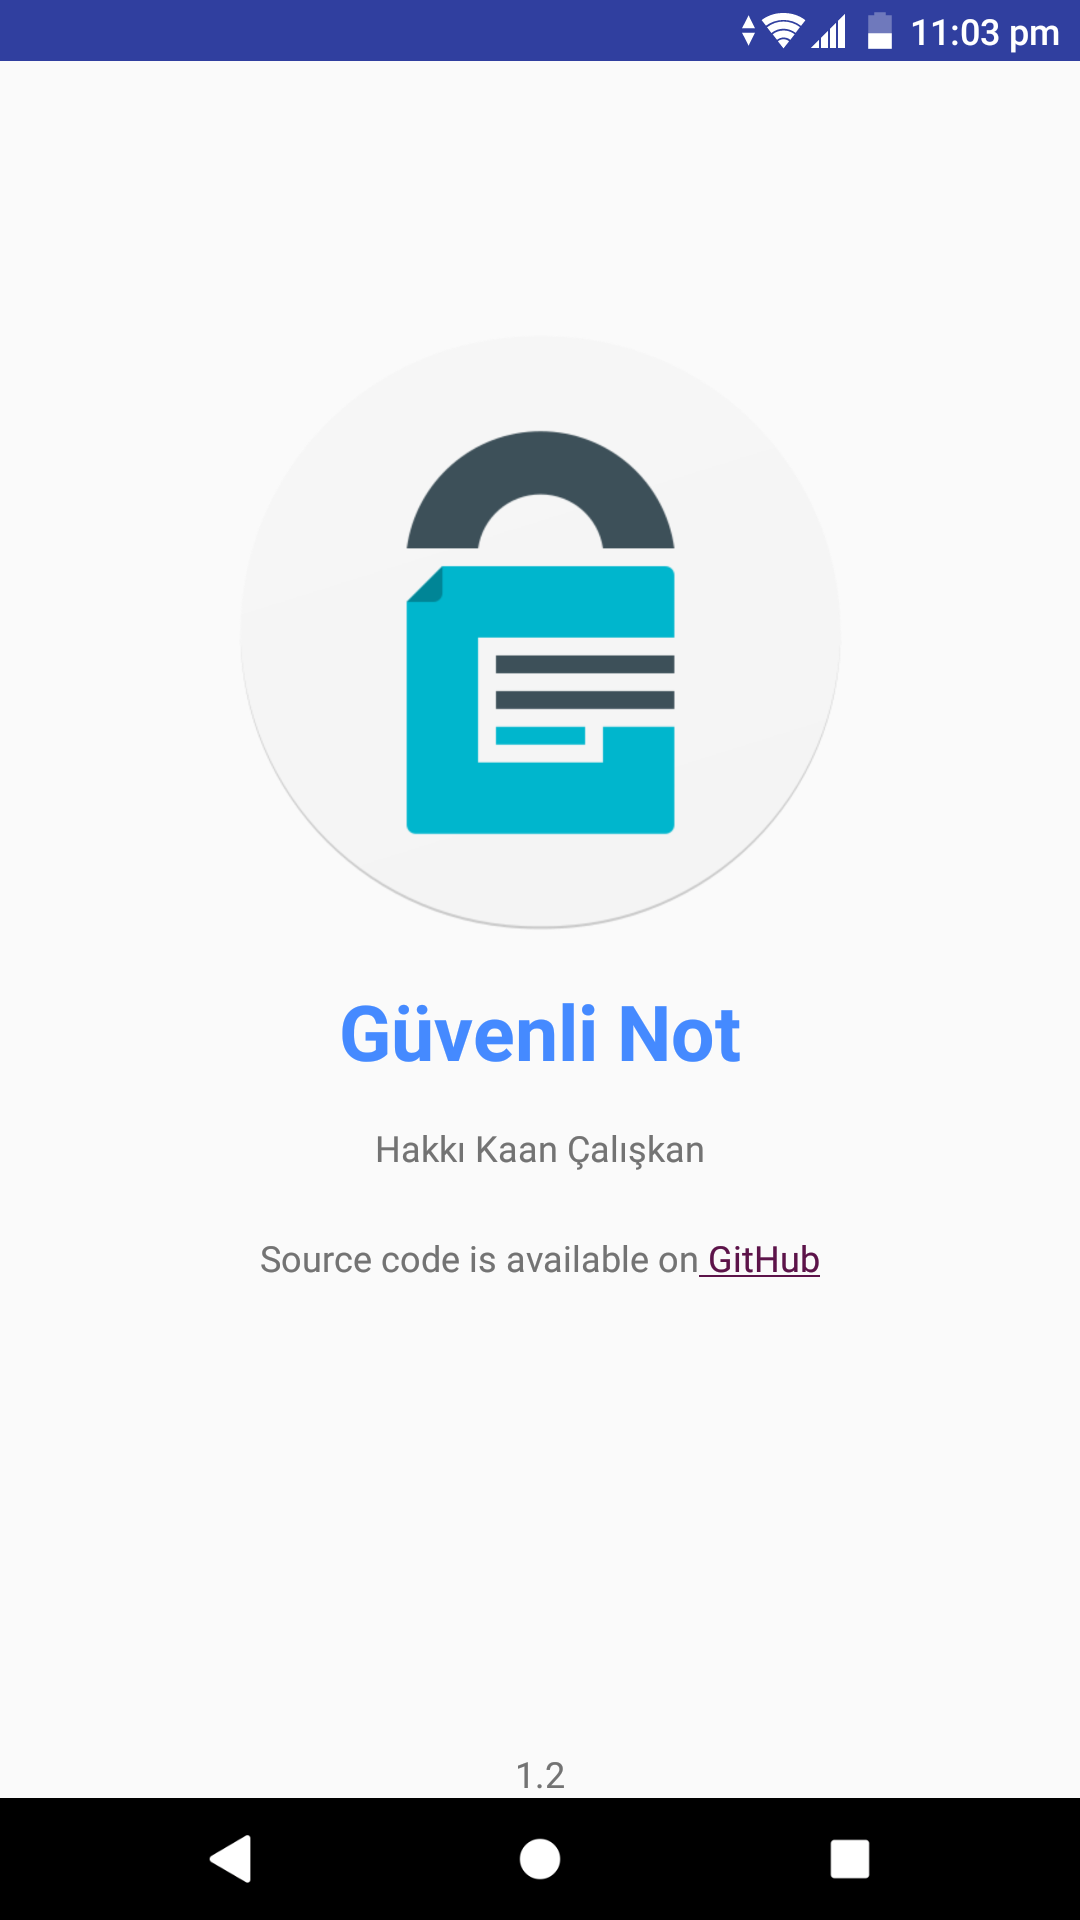
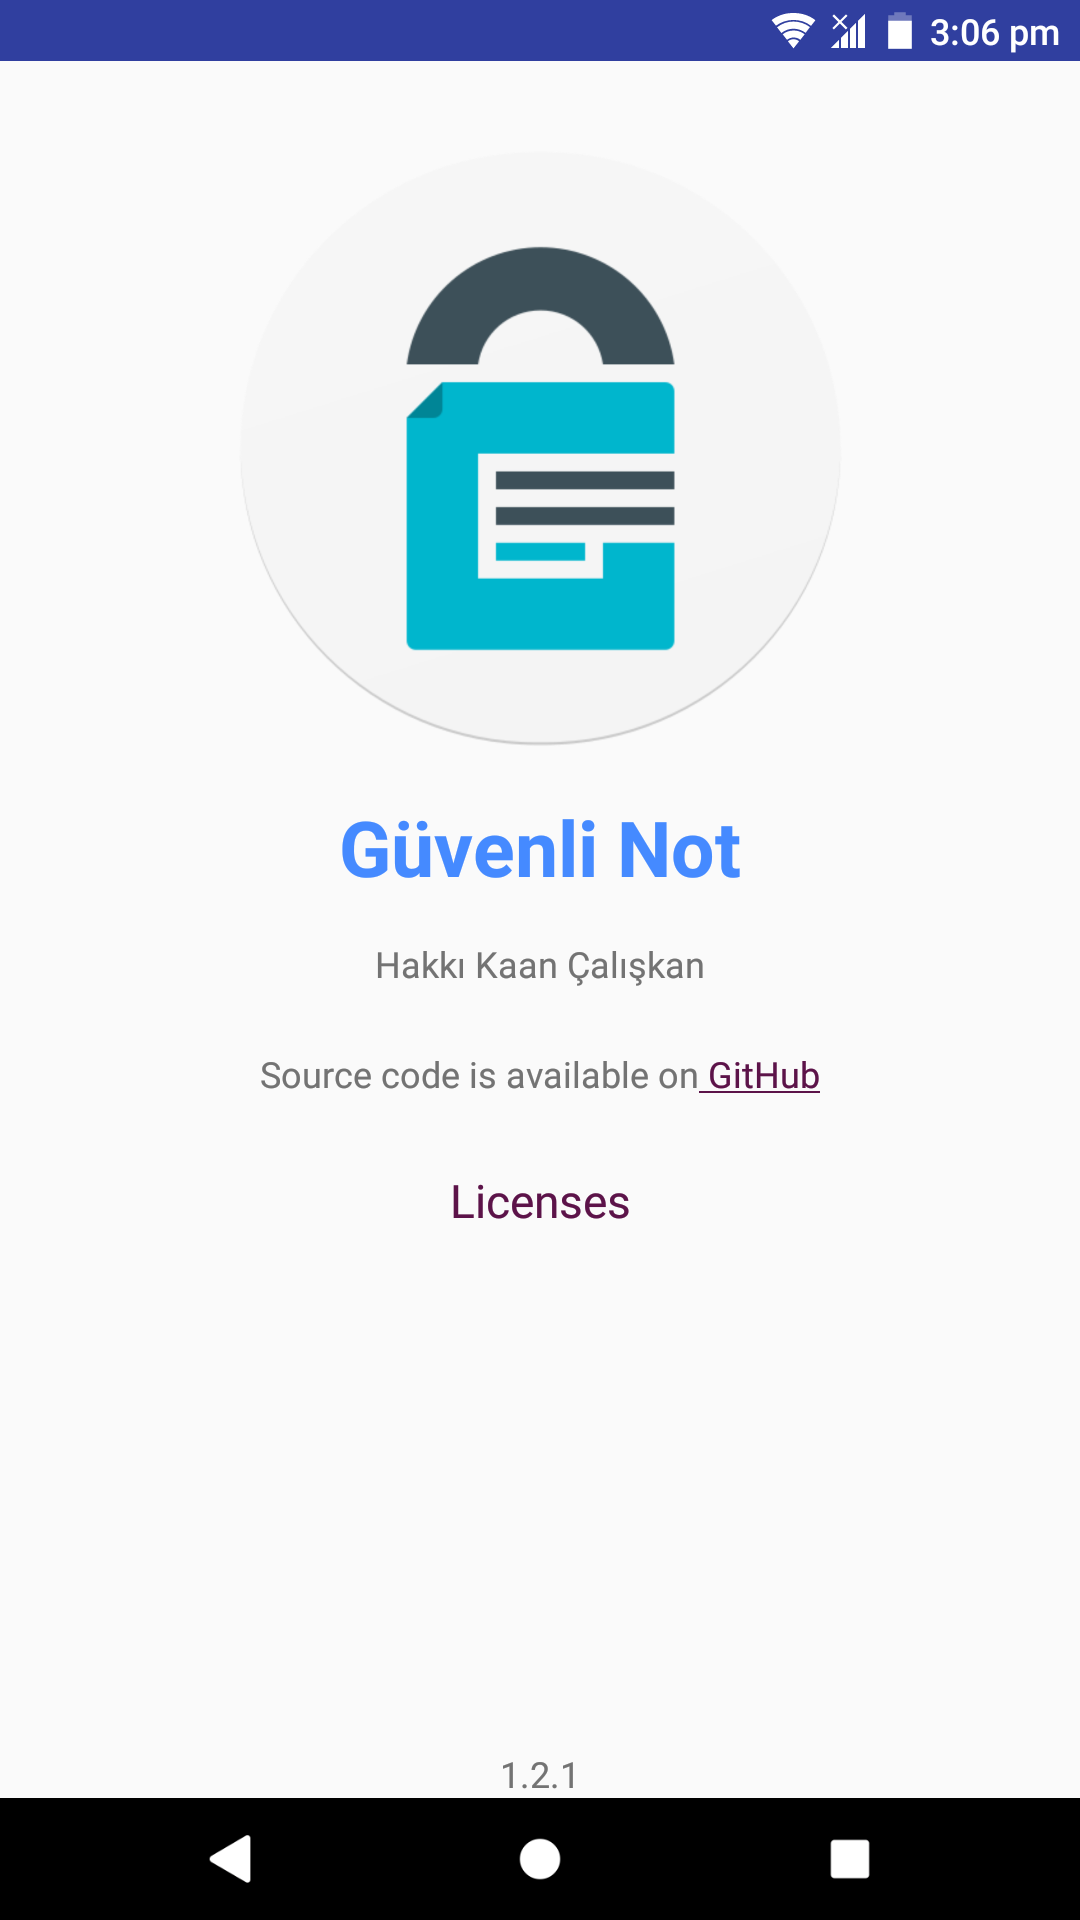
new licenses page and changes about readme

diff --git a/app/src/main/java/com/kaancaliskan/guvenlinot/About.kt b/app/src/main/java/com/kaancaliskan/guvenlinot/About.kt
@@ -1,19 +1,23 @@
 package com.kaancaliskan.guvenlinot
 
+import android.app.Activity
+import android.content.Intent
 import android.os.Bundle
-import android.support.v7.app.AppCompatActivity
 import android.text.method.LinkMovementMethod
 import kotlinx.android.synthetic.main.about.*
-
 /**
  * This class is my about page and provides link to be clickable without showing whole link.
  */
-class About: AppCompatActivity(){
+class About: Activity(){
     override fun onCreate(savedInstanceState: Bundle?) {
         super.onCreate(savedInstanceState)
         setContentView(R.layout.about)
-        setSupportActionBar(findViewById(R.id.toolbar))
 
         source_code.movementMethod = LinkMovementMethod.getInstance()
+
+        licenses_button.setOnClickListener {
+            val intent = Intent(applicationContext, Licenses::class.java)
+            startActivity(intent)
+        }
     }
 }

diff --git a/app/src/main/java/com/kaancaliskan/guvenlinot/Licenses.kt b/app/src/main/java/com/kaancaliskan/guvenlinot/Licenses.kt
@@ -1,0 +1,18 @@
+package com.kaancaliskan.guvenlinot
+
+import android.app.Activity
+import android.os.Bundle
+import android.text.method.LinkMovementMethod
+import kotlinx.android.synthetic.main.licences.*
+/**
+ * Licenses class.
+ */
+class Licenses: Activity() {
+    override fun onCreate(savedInstanceState: Bundle?) {
+        super.onCreate(savedInstanceState)
+        setContentView(R.layout.licences)
+
+        toasty_license.movementMethod=LinkMovementMethod.getInstance()
+        toasty_text.movementMethod=LinkMovementMethod.getInstance()
+    }
+}

diff --git a/README.md b/README.md
@@ -2,19 +2,27 @@
 <img src="Logo/horizontal.png" width=60%>
 </h1>
 
-**Secure Note App for Android**
+[![Build Status](https://travis-ci.org/hakkikaancaliskan/GuvenliNot.svg?branch=master)](https://travis-ci.org/hakkikaancaliskan/GuvenliNot)
+[![Codacy Badge](https://api.codacy.com/project/badge/Grade/3eb11db12ddc4532b566bd9d9f400674)](https://www.codacy.com/app/hakkikaancaliskan/GuvenliNot?utm_source=github.com&amp;utm_medium=referral&amp;utm_content=hakkikaancaliskan/GuvenliNot&amp;utm_campaign=Badge_Grade)
 
-This app saves your notes locally with Base64 (for notes) and SHA-512 (for password) encoding/encryption.
+# Secure Note App for Android
+
+This app saves your notes **locally** with Base64 (for notes) and SHA-512 (for password) encoding/encryption.
 
 This app supports 5.0-9.0 Android versions.
 
 Default password is 1234. You can change in app.
 
-Thank you so much for icon and logo [zularizal](https://github.com/zularizal).
+## Open Source Libraries:
 
-I'm using [Toasty](https://github.com/GrenderG/Toasty). Thanks to [GrenderG](https://github.com/GrenderG) for this great library.
+-[Toasty](https://github.com/GrenderG/Toasty) for error/success messages
 
-<img src="https://github.com/hakkikaancaliskan/GuvenliNot/blob/master/Screenshot/Screenshot_1.png" height="350"><img src="https://github.com/hakkikaancaliskan/GuvenliNot/blob/master/Screenshot/Screenshot_2.png" height="350"><img src="https://github.com/hakkikaancaliskan/GuvenliNot/blob/master/Screenshot/Screenshot_3.png" height="350"><img src="https://github.com/hakkikaancaliskan/GuvenliNot/blob/master/Screenshot/Screenshot_4.png" height="350">
+## Screenshots
 
-[![Build Status](https://travis-ci.org/hakkikaancaliskan/GuvenliNot.svg?branch=master)](https://travis-ci.org/hakkikaancaliskan/GuvenliNot)
-[![Codacy Badge](https://api.codacy.com/project/badge/Grade/3eb11db12ddc4532b566bd9d9f400674)](https://www.codacy.com/app/hakkikaancaliskan/GuvenliNot?utm_source=github.com&amp;utm_medium=referral&amp;utm_content=hakkikaancaliskan/GuvenliNot&amp;utm_campaign=Badge_Grade)
+<img src="Screenshot/Screenshot_1.png" width=25%><img src="Screenshot/Screenshot_2.png" width=25%><img src="Screenshot/Screenshot_3.png" width=25%><img src="Screenshot/Screenshot_4.png" width=25%>
+
+## GüvenliNot Logo
+
+**Güvenli Not** logo is designed by **zularizal**.
+
+[GitHub](https://github.com/zularizal)
